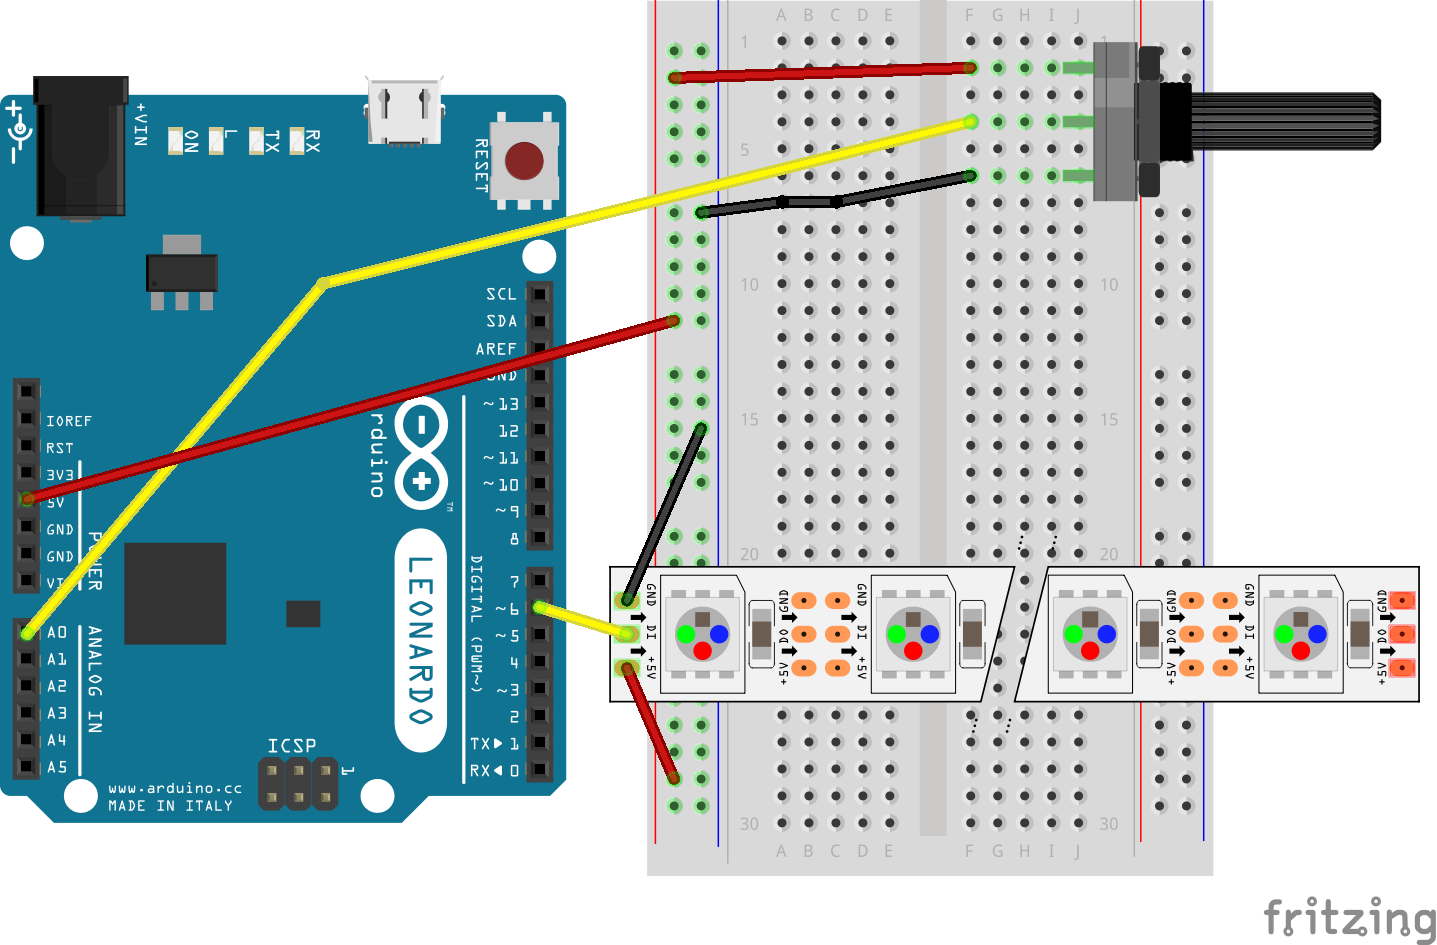
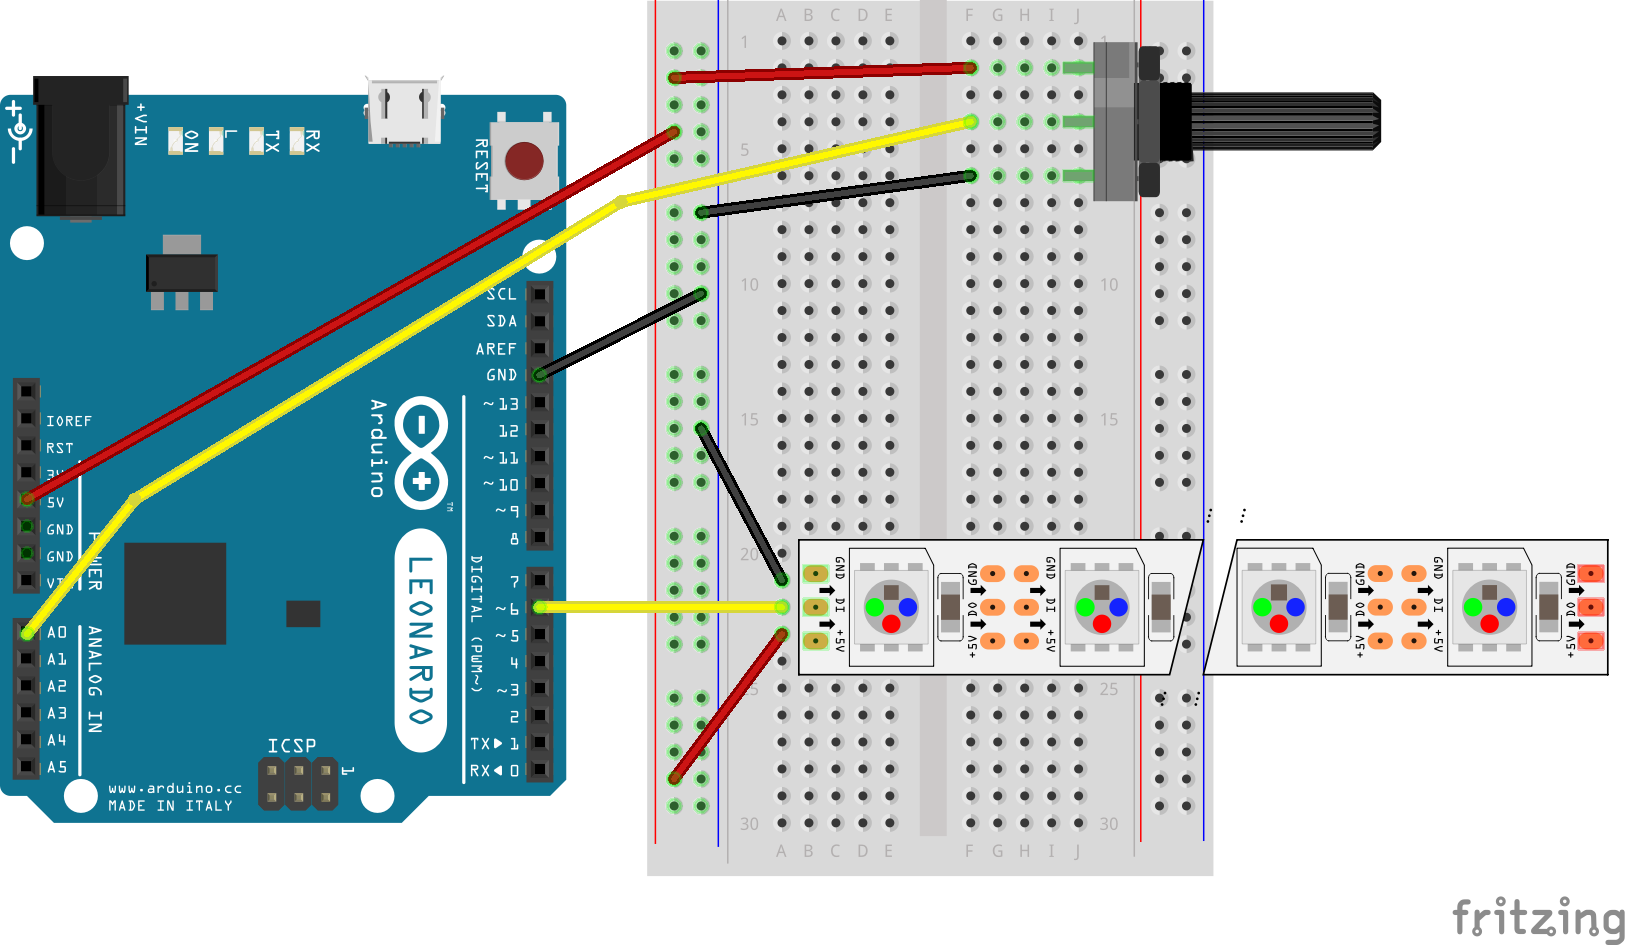
Sezon 03 :: NeoPixele na choinkę :christmas_tree:

diff --git a/s03/Readme.md b/s03/Readme.md
@@ -1,5 +1,30 @@
 # Sezon 03 :: NeoPixele na choinkę :christmas_tree: 
 
+## Poruszone zagadnienia
+
+### NeoPixels RGBW
+- diody sterowane za pomocą jednego pinu. Każda dioda ma wbudowany swój własny mikrokontroler (driver) WOW!
+- Każda dioda ma trzy barwy składowe R, G, B, oraz dodatkową diodę białą (W)! Stąd RGBW.
+- strip.begin(), strip.show() 
+- strip.setPixelColor(), 
+- strip.Color(R, G, B, W)
+
+### Potencjometr
+- rezystor o zmiennym oporze, zależnym od ustawienia konta na pokrętle
+
+## Praca domowa
+Spokojnych Świąt i zabawy prezentami :)
+
+## Przydatne linki
+- [DESIGN YOUR CIRCUIT WITH CIRCUITO.IO](https://www.circuito.io)
+- [Fritzing - document prototypes](http://fritzing.org/home/)
+- [AdaFruit Fritzing Library](https://github.com/adafruit/Fritzing-Library)
+- [The Magic of NeoPixels - Adafruit NeoPixel Überguide](https://learn.adafruit.com/adafruit-neopixel-uberguide/the-magic-of-neopixels)
+
 ## Schematy
+
 ### e04_wedrowiecPokretlo
 ![](e04_wedrowiecPokretlo.png)
+
+### e05_wedrowcyDwajFoto
+![](e05_wedrowcyDwajFoto.png)
